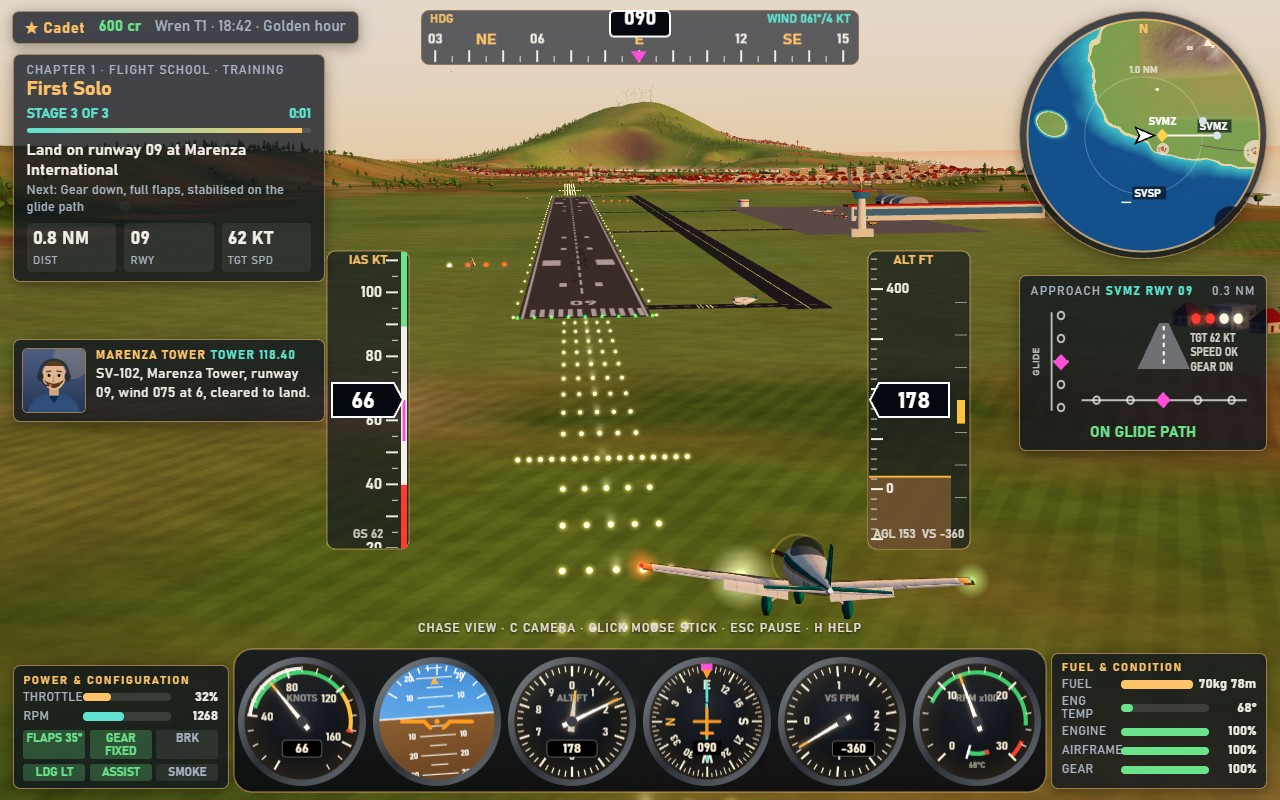
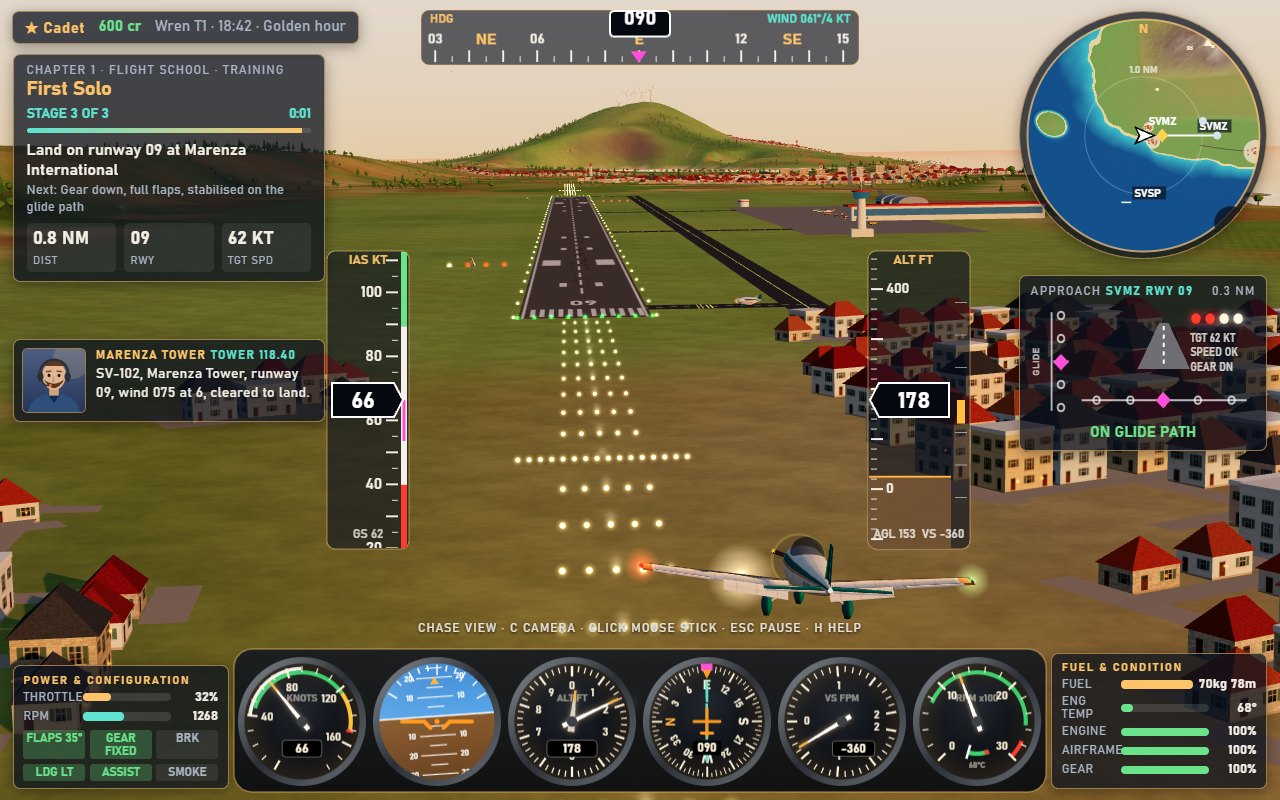
Runway edge and threshold lights drawn larger so they read on the short final; cover retaken over the new villages

diff --git a/game/src/world/airfieldBuilder.js b/game/src/world/airfieldBuilder.js
@@ -325,13 +325,13 @@ export function buildAirfields(terrain) {
       for (let along = -field.length / 2; along <= field.length / 2 + 0.1; along += 60) {
         for (const s of [-1, 1]) {
           const p = fromRunwayFrame(field, along, s * (field.width / 2 + 1.5));
-          edgeBatch.add(p.x, y + 0.6, p.z, WHITE, 2.6);
+          edgeBatch.add(p.x, y + 0.6, p.z, WHITE, 3.3);
         }
       }
       for (const end of [-1, 1]) {
         for (let a = -field.width / 2; a <= field.width / 2 + 0.1; a += field.width / 8) {
           const p = fromRunwayFrame(field, end * (field.length / 2 + 2), a);
-          edgeBatch.add(p.x, y + 0.6, p.z, GREEN, 3.0);
+          edgeBatch.add(p.x, y + 0.6, p.z, GREEN, 3.8);
         }
       }
     }
